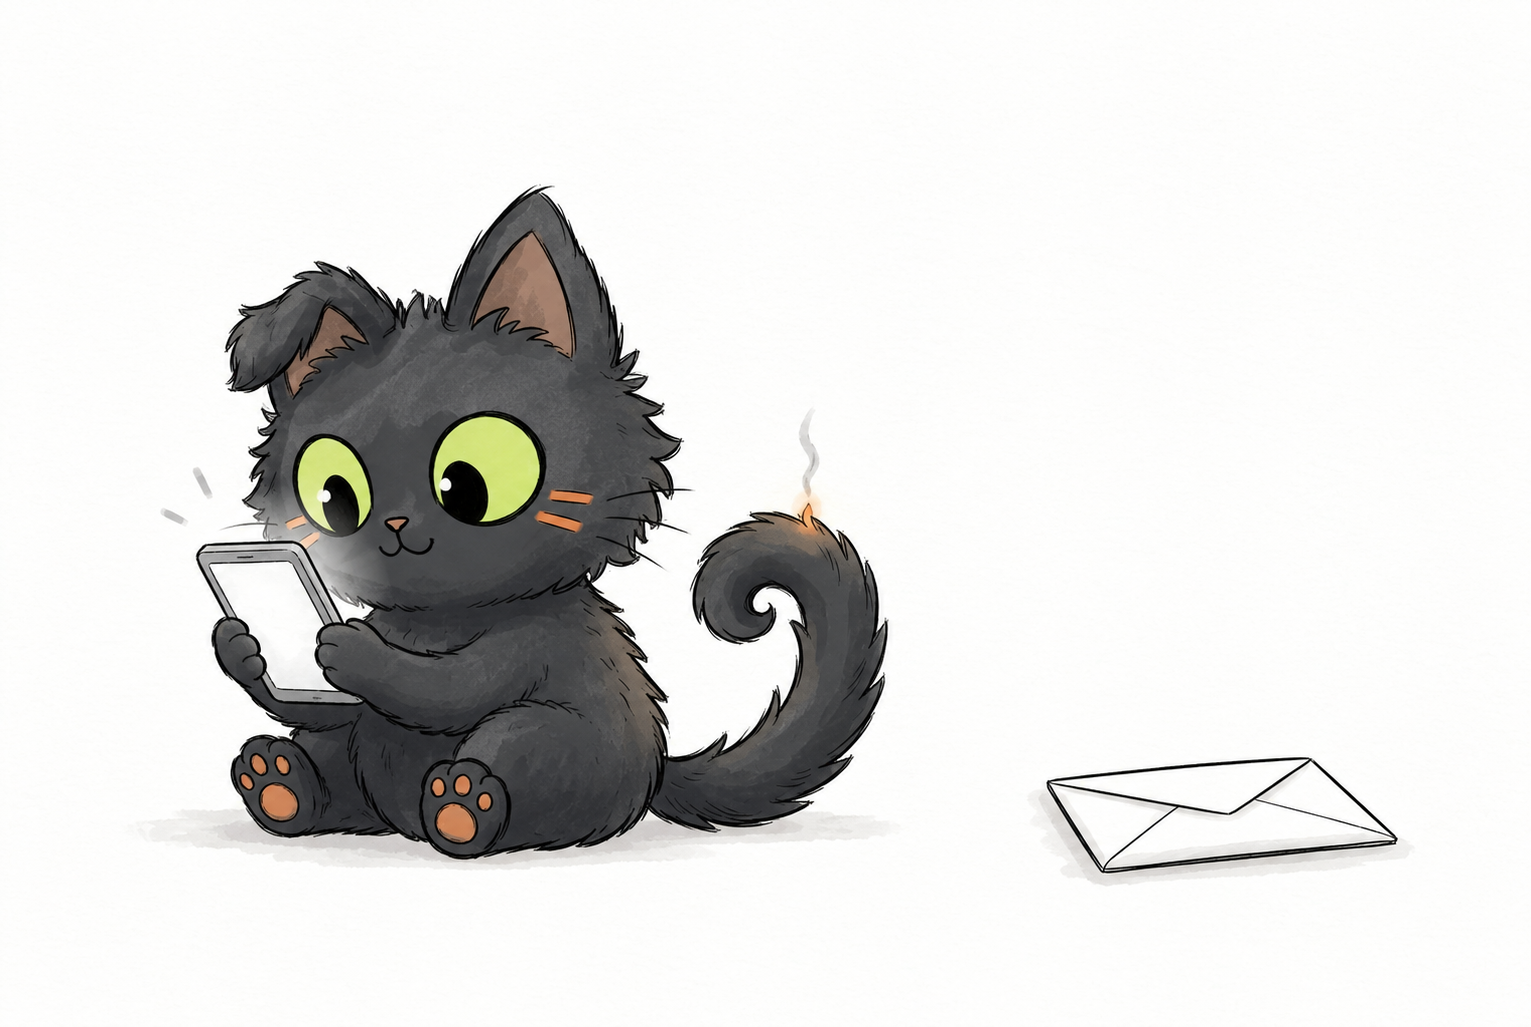
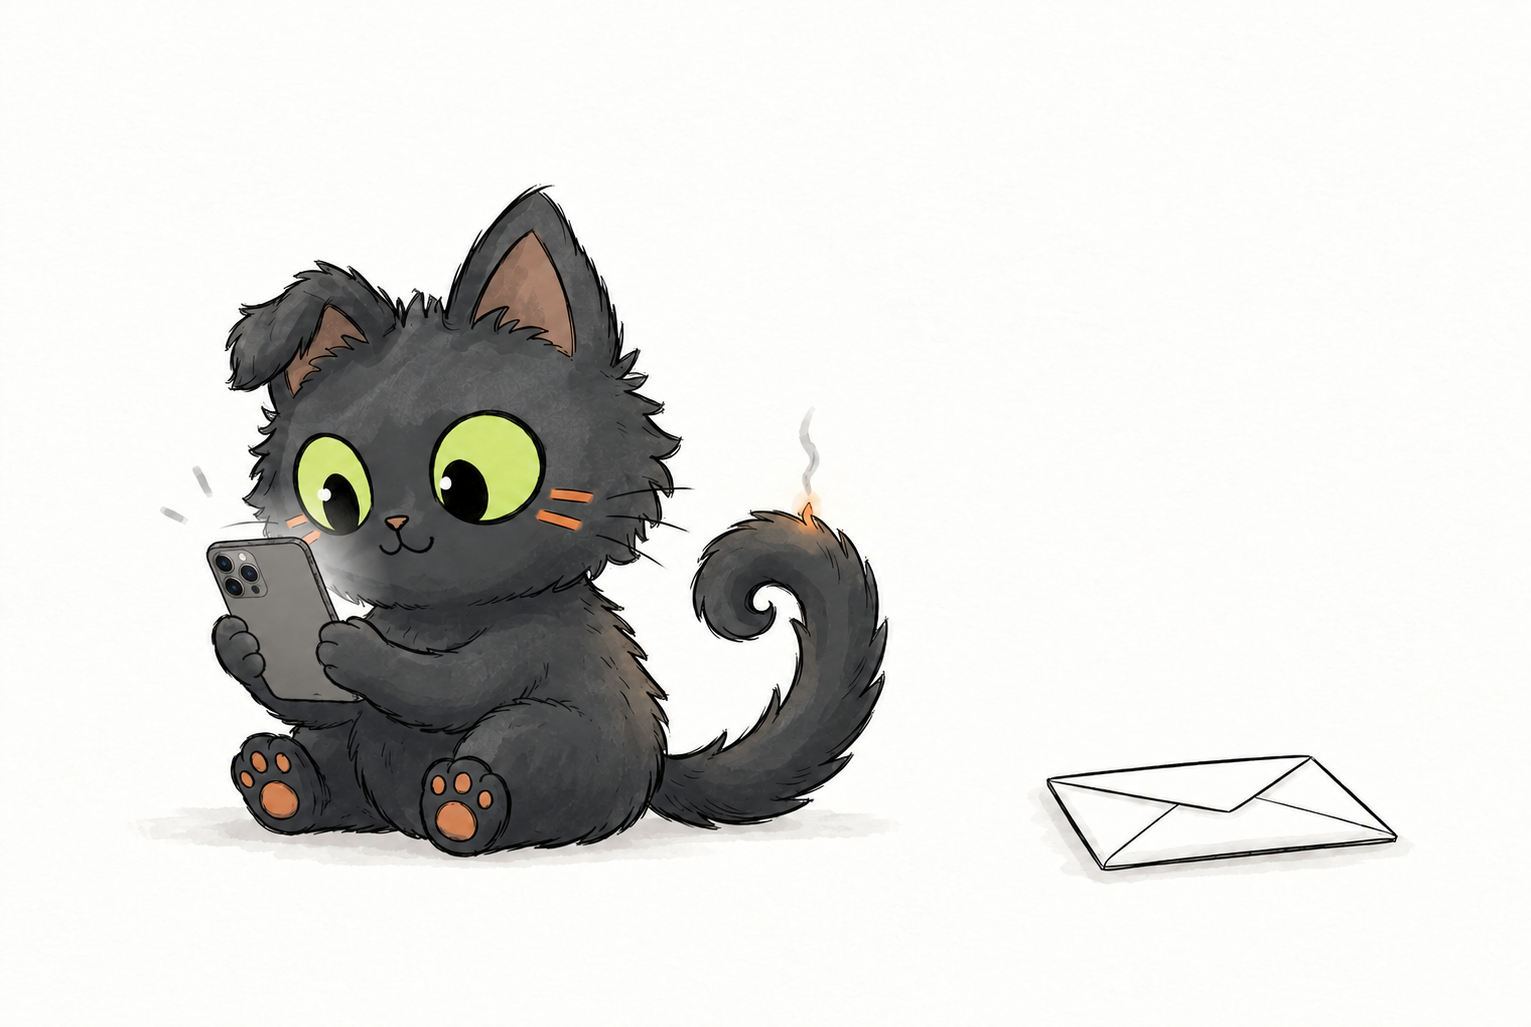
Replace reel 01 and 08 phone drawings; keep removed originals out
The owner supplied corrected versions of the cat with a phone (reel 01) and the
cat on the sofa (reel 08, the hook scene, aligned to the old one within a
pixel so the animation still fits) and wants the old ones gone. The library
scan used to restore deleted originals from git history, which brought back
the two drawings replaced earlier today. library/cat/removed.json now lists
originals the owner removed, the scan skips them, and a test fails if one
comes back.

Claude-Session: https://claude.ai/code/session_01WL83YHdupNJiw52fjyDVVG

diff --git a/scripts/cat_library.py b/scripts/cat_library.py
@@ -83,12 +83,21 @@ def _thumb(src, dst):
         im = im.convert("RGB"); im.thumbnail((THUMB_W, THUMB_W * 2)); im.save(dst, "JPEG", quality=84)
 
 
+def removed():
+    """sha256 картинок, которые владелец велел убрать из библиотеки (заменены исправленными): library/cat/removed.json.
+    Без этого --scan достаёт их обратно из истории git (владелец 27.10: «старые удалены и заменены»)."""
+    p = os.path.join(LIB, "removed.json")
+    return {r["sha256"] for r in json.load(open(p, encoding="utf8"))} if os.path.exists(p) else set()
+
+
 def add(data, name, kind, **meta):
     """Положить картинку (байты) в библиотеку. Возвращает запись каталога; та же картинка второй раз не копируется."""
     o, t, _ = _paths()
     if not data:
         raise ValueError(f"{name}: пустой файл")
     sha = hashlib.sha256(data).hexdigest()
+    if sha in removed():                               # снят владельцем: из истории git не возвращается
+        return None
     cat = load()
     rec = next((r for r in cat if r["sha256"] == sha), None)
     used = meta.pop("used_in", None)

diff --git a/tests/test_reel_rules.py b/tests/test_reel_rules.py
@@ -1200,3 +1200,6 @@ def test_library_has_every_original():
     miss = [f for p in pats for f in glob.glob(os.path.join(root, p))
             if not f.endswith("_mask.png") and hashlib.sha256(open(f, "rb").read()).hexdigest() not in have]
     assert not miss, f"нет в библиотеке: {miss}"
+    gone = os.path.join(root, "library", "cat", "removed.json")
+    back = [r["was"] for r in (json.load(open(gone, encoding="utf8")) if os.path.exists(gone) else []) if r["sha256"] in have]
+    assert not back, f"снятые владельцем картинки вернулись в библиотеку: {back}"

diff --git a/library/cat/README.md b/library/cat/README.md
@@ -1,10 +1,10 @@
 # Библиотека оригиналов: кот и всё, что сгенерировано
 
-Картинок: **68**, 112 МБ. Оригиналы — `originals/` байт в байт, как пришли из модели (PNG без пересжатия); `thumbs/` — превью для этой страницы; `catalog.json` — промпт, модель, цена, где используется.
+Картинок: **68**, 111 МБ. Оригиналы — `originals/` байт в байт, как пришли из модели (PNG без пересжатия); `thumbs/` — превью для этой страницы; `catalog.json` — промпт, модель, цена, где используется.
 
 Пополняется сама: каждая генерация через шлюз (`llm_gateway.Gateway.image`) кладёт картинку сюда, включая забракованные варианты. Собрать уже лежащее в репозитории: `python scripts/cat_library.py --scan`.
 
-## генерация (24)
+## генерация (23)
 
 | превью | оригинал | где | промпт |
 |---|---|---|---|
@@ -22,7 +22,6 @@
 | ![](thumbs/2026-10-26_gen_cx_gpt-image-2_1b9d6f2a.jpg) | [2026-10-26_gen_cx_gpt-image-2_1b9d6f2a.png](originals/2026-10-26_gen_cx_gpt-image-2_1b9d6f2a.png)<br>1024×1536, 2026-10-26 | `videos/09_napishi/reel/gen/m2_back.png` | Reference images 1-3 show only the drawing style: take from them the line work, colors, shading and simplicity, never their content or characters. Reference image 4 is the main character: keep exactly its head, face, col… |
 | ![](thumbs/2026-10-26_gen_cx_gpt-image-2_4e7b9837.jpg) | [2026-10-26_gen_cx_gpt-image-2_4e7b9837.png](originals/2026-10-26_gen_cx_gpt-image-2_4e7b9837.png)<br>1024×1536, 2026-10-26 | `videos/07_potom/reel/gen/p1_tower.png` | Reference images 1-3 show only the drawing style: take from them the line work, colors, shading and simplicity, never their content or characters. Reference image 4 is the main character: keep exactly its head, face, col… |
 | ![](thumbs/2026-10-26_gen_cx_gpt-image-2_58b40bf4.jpg) | [2026-10-26_gen_cx_gpt-image-2_58b40bf4.png](originals/2026-10-26_gen_cx_gpt-image-2_58b40bf4.png)<br>1024×1536, 2026-10-26 | `videos/10_ideal/reel/gen/i2_drafts.png` | Reference images 1-3 show only the drawing style: take from them the line work, colors, shading and simplicity, never their content or characters. Reference image 4 is the main character: keep exactly its head, face, col… |
-| ![](thumbs/2026-10-26_gen_cx_gpt-image-2_65c121e4.jpg) | [2026-10-26_gen_cx_gpt-image-2_65c121e4.png](originals/2026-10-26_gen_cx_gpt-image-2_65c121e4.png)<br>1024×1536, 2026-10-26 | `videos/08_dvoinoy/reel/gen/q1_sofa.png` | Reference images 1-3 show only the drawing style: take from them the line work, colors, shading and simplicity, never their content or characters. Reference image 4 is the main character: keep exactly its head, face, col… |
 | ![](thumbs/2026-10-26_gen_cx_gpt-image-2_771f6530.jpg) | [2026-10-26_gen_cx_gpt-image-2_771f6530.png](originals/2026-10-26_gen_cx_gpt-image-2_771f6530.png)<br>1024×1536, 2026-10-26 | `videos/09_napishi/reel/gen/m1_wait.png` | Reference images 1-3 show only the drawing style: take from them the line work, colors, shading and simplicity, never their content or characters. Reference image 4 is the main character: keep exactly its head, face, col… |
 | ![](thumbs/2026-10-26_gen_cx_gpt-image-2_93698237.jpg) | [2026-10-26_gen_cx_gpt-image-2_93698237.png](originals/2026-10-26_gen_cx_gpt-image-2_93698237.png)<br>1024×1536, 2026-10-26 | `videos/08_dvoinoy/reel/gen/q2_door.png` | Reference images 1-3 show only the drawing style: take from them the line work, colors, shading and simplicity, never their content or characters. Reference image 4 is the main character: keep exactly its head, face, col… |
 | ![](thumbs/2026-10-26_gen_cx_gpt-image-2_9a794049.jpg) | [2026-10-26_gen_cx_gpt-image-2_9a794049.png](originals/2026-10-26_gen_cx_gpt-image-2_9a794049.png)<br>1024×1536, 2026-10-26 | `videos/10_ideal/reel/gen/i1_blank.png` | Reference images 1-3 show only the drawing style: take from them the line work, colors, shading and simplicity, never their content or characters. Reference image 4 is the main character: keep exactly its head, face, col… |
@@ -97,11 +96,10 @@
 |---|---|---|---|
 | ![](thumbs/2026-10-07_experiments_alive_cat_doll_assets_envelope_98b79707.jpg) | [2026-10-07_experiments_alive_cat_doll_assets_envelope_98b79707.png](originals/2026-10-07_experiments_alive_cat_doll_assets_envelope_98b79707.png)<br>304×107, 2026-10-07 | `experiments/alive_cat/doll/assets/envelope.png` |  |
 
-## рисунок рилса (13)
+## рисунок рилса (14)
 
 | превью | оригинал | где | промпт |
 |---|---|---|---|
-| ![](thumbs/2026-10-23_videos_01_sdvg_pismo_reel_gen_r1_phone_041f0ab1.jpg) | [2026-10-23_videos_01_sdvg_pismo_reel_gen_r1_phone_041f0ab1.png](originals/2026-10-23_videos_01_sdvg_pismo_reel_gen_r1_phone_041f0ab1.png)<br>1531×1027, 2026-10-23 | `videos/01_sdvg_pismo/reel/gen/r1_phone.png` | Reference images 1-3 show only the drawing style: take from them the line work, colors, shading and simplicity, never their content or characters. Reference image 4 is the main character: keep exactly its head, face, col… |
 | ![](thumbs/2026-10-23_videos_01_sdvg_pismo_reel_gen_r2_hourglass_2b638ebd.jpg) | [2026-10-23_videos_01_sdvg_pismo_reel_gen_r2_hourglass_2b638ebd.png](originals/2026-10-23_videos_01_sdvg_pismo_reel_gen_r2_hourglass_2b638ebd.png)<br>1531×1027, 2026-10-23 | `videos/01_sdvg_pismo/reel/gen/r2_hourglass.png` | Reference images 1-3 show only the drawing style: take from them the line work, colors, shading and simplicity, never their content or characters. Reference image 4 is the main character: keep exactly its head, face, col… |
 | ![](thumbs/2026-10-25_videos_03_lenivyi_reel_gen_g1_hands_cb7f8c5c.jpg) | [2026-10-25_videos_03_lenivyi_reel_gen_g1_hands_cb7f8c5c.png](originals/2026-10-25_videos_03_lenivyi_reel_gen_g1_hands_cb7f8c5c.png)<br>1531×1027, 2026-10-25 | `videos/03_lenivyi/reel/gen/g1_hands.png` | Reference images 1-3 show only the drawing style: take from them the line work, colors, shading and simplicity, never their content or characters. Reference image 4 is the main character: keep exactly its head, face, col… |
 | ![](thumbs/2026-10-25_videos_03_lenivyi_reel_gen_g2_tail_62fcfcc3.jpg) | [2026-10-25_videos_03_lenivyi_reel_gen_g2_tail_62fcfcc3.png](originals/2026-10-25_videos_03_lenivyi_reel_gen_g2_tail_62fcfcc3.png)<br>1531×1027, 2026-10-25 | `videos/03_lenivyi/reel/gen/g2_tail.png` | Reference images 1-3 show only the drawing style: take from them the line work, colors, shading and simplicity, never their content or characters. Reference image 4 is the main character: keep exactly its head, face, col… |
@@ -112,8 +110,10 @@
 | ![](thumbs/2026-10-25_videos_05_ustal_reel_gen_u2_glass_a5d52a39.jpg) | [2026-10-25_videos_05_ustal_reel_gen_u2_glass_a5d52a39.png](originals/2026-10-25_videos_05_ustal_reel_gen_u2_glass_a5d52a39.png)<br>1254×1254, 2026-10-25 | `videos/05_ustal/reel/gen/u2_glass.png` | Reference images 1-3 show only the drawing style: take from them the line work, colors, shading and simplicity, never their content or characters. Reference image 4 is the main character: keep exactly its head, face, col… |
 | ![](thumbs/2026-10-25_videos_05_ustal_reel_gen_u3_glass_down_6d36416f.jpg) | [2026-10-25_videos_05_ustal_reel_gen_u3_glass_down_6d36416f.png](originals/2026-10-25_videos_05_ustal_reel_gen_u3_glass_down_6d36416f.png)<br>1536×1024, 2026-10-25 | `videos/05_ustal/reel/gen/u3_glass_down.png` | Reference images 1-3 show only the drawing style: take from them the line work, colors, shading and simplicity, never their content or characters. Reference image 4 is the main character: keep exactly its head, face, col… |
 | ![](thumbs/2026-10-25_videos_05_ustal_reel_gen_u3_glass_down_raw_dc2c616a.jpg) | [2026-10-25_videos_05_ustal_reel_gen_u3_glass_down_raw_dc2c616a.png](originals/2026-10-25_videos_05_ustal_reel_gen_u3_glass_down_raw_dc2c616a.png)<br>1536×1024, 2026-10-25 | `videos/05_ustal/reel/gen/u3_glass_down_raw.png` |  |
+| ![](thumbs/2026-10-23_videos_01_sdvg_pismo_reel_gen_r1_phone_e3b862b6.jpg) | [2026-10-23_videos_01_sdvg_pismo_reel_gen_r1_phone_e3b862b6.png](originals/2026-10-23_videos_01_sdvg_pismo_reel_gen_r1_phone_e3b862b6.png)<br>1531×1027, 2026-10-27 | `videos/01_sdvg_pismo/reel/gen/r1_phone.png` | Reference images 1-3 show only the drawing style: take from them the line work, colors, shading and simplicity, never their content or characters. Reference image 4 is the main character: keep exactly its head, face, col… |
 | ![](thumbs/2026-10-25_videos_04_noch_reel_gen_n1_bed_top_39ca987a.jpg) | [2026-10-25_videos_04_noch_reel_gen_n1_bed_top_39ca987a.png](originals/2026-10-25_videos_04_noch_reel_gen_n1_bed_top_39ca987a.png)<br>1531×1027, 2026-10-27 | `videos/04_noch/reel/gen/n1_bed_top.png` | Reference images 1-3 show only the drawing style: take from them the line work, colors, shading and simplicity, never their content or characters. Reference image 4 is the main character: keep exactly its head, face, col… |
 | ![](thumbs/2026-10-25_videos_04_noch_reel_gen_n4_tea_day_40bdbf52.jpg) | [2026-10-25_videos_04_noch_reel_gen_n4_tea_day_40bdbf52.png](originals/2026-10-25_videos_04_noch_reel_gen_n4_tea_day_40bdbf52.png)<br>1254×1254, 2026-10-27 | `videos/04_noch/reel/gen/n4_tea_day.png` | Reference images 1-3 show only the drawing style: take from them the line work, colors, shading and simplicity, never their content or characters. Reference image 4 is the main character: keep exactly its head, face, col… |
+| ![](thumbs/2026-10-26_videos_08_dvoinoy_reel_gen_q1_sofa_3bd96cbf.jpg) | [2026-10-26_videos_08_dvoinoy_reel_gen_q1_sofa_3bd96cbf.png](originals/2026-10-26_videos_08_dvoinoy_reel_gen_q1_sofa_3bd96cbf.png)<br>1024×1536, 2026-10-27 | `videos/08_dvoinoy/reel/gen/q1_sofa.png` | Reference images 1-3 show only the drawing style: take from them the line work, colors, shading and simplicity, never their content or characters. Reference image 4 is the main character: keep exactly its head, face, col… |
 
 ## эталон сайта (2)
 
